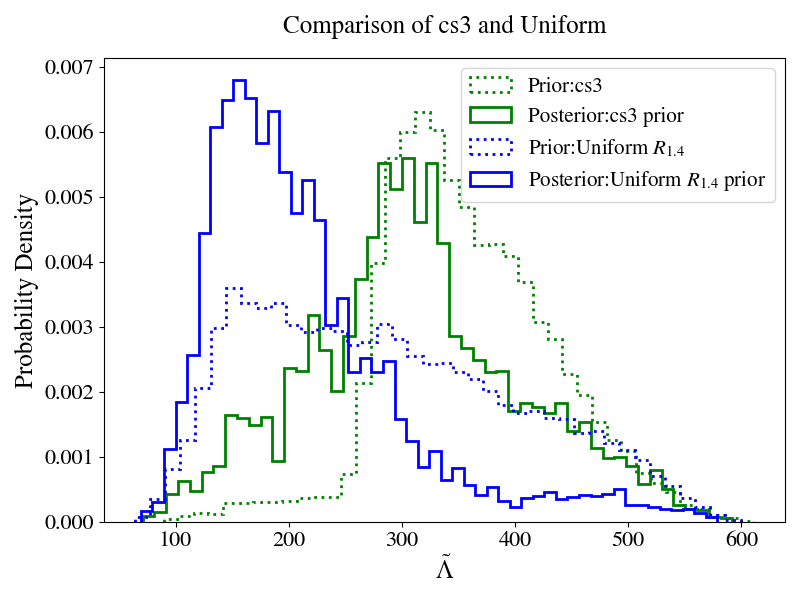
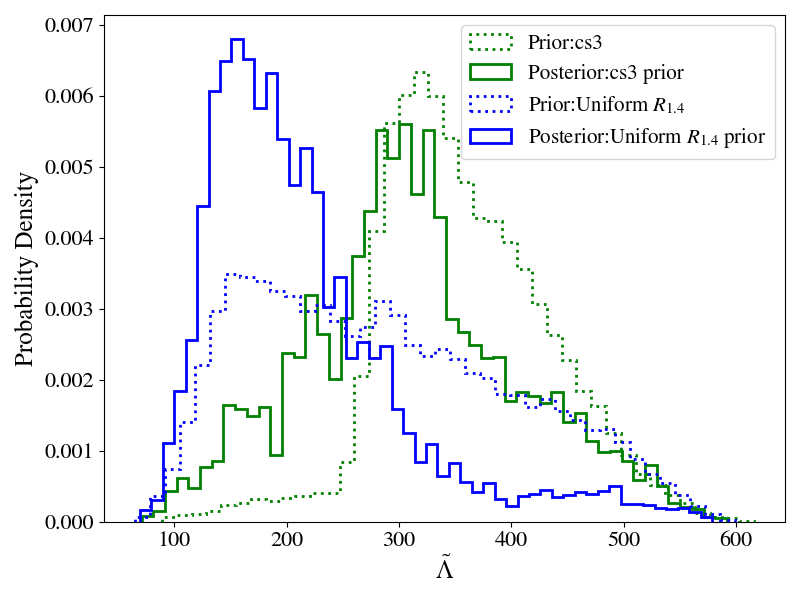
fixed titles

diff --git a/pycbc_runs/scripts/cs5n0prior_post_w_uniform.py b/pycbc_runs/scripts/cs5n0prior_post_w_uniform.py
@@ -187,7 +187,6 @@ plt.tick_params(axis='both', which='major', labelsize=16)
 plt.xlabel(r"$\tilde \Lambda$", fontsize=18)
 plt.ylabel(r"Probability Density", fontsize=18)
 plt.legend(fontsize=15)
-plt.title('Comparison of cs5 and Uniform', fontsize=18, pad=18)
 plt.tight_layout()
 plt.savefig("../plots/cs5n0_lambda_prior_post.png")
 
@@ -219,6 +218,5 @@ plt.tick_params(axis='both', which='major', labelsize=16)
 plt.xlabel(r"$R_{1.4}$ (km)", fontsize=18)
 plt.ylabel(r"Probability Density", fontsize=18)
 plt.legend(fontsize=15, loc="upper left")
-plt.title('Comparison of lin5 and Uniform', fontsize=18, pad=18)
 plt.tight_layout()
 plt.savefig("../plots/cs5n0_r1p4_prior_post.png")

diff --git a/pycbc_runs/scripts/poly5prior_post_w_uniform.py b/pycbc_runs/scripts/poly5prior_post_w_uniform.py
@@ -187,7 +187,6 @@ plt.tick_params(axis='both', which='major', labelsize=16)
 plt.xlabel(r"$\tilde \Lambda$", fontsize=18)
 plt.ylabel(r"Probability Density", fontsize=18)
 plt.legend(fontsize=15)
-plt.title('Comparison of cs5 and Uniform', fontsize=18, pad=18)
 plt.tight_layout()
 plt.savefig("../plots/poly5_lambda_prior_post.png")
 
@@ -219,6 +218,5 @@ plt.tick_params(axis='both', which='major', labelsize=16)
 plt.xlabel(r"$R_{1.4}$ (km)", fontsize=18)
 plt.ylabel(r"Probability Density", fontsize=18)
 plt.legend(fontsize=15, loc="upper left")
-plt.title('Comparison of lin5 and Uniform', fontsize=18, pad=18)
 plt.tight_layout()
 plt.savefig("../plots/poly5_r1p4_prior_post.png")

diff --git a/pycbc_runs/scripts/cs3prior_post_w_uniform.py b/pycbc_runs/scripts/cs3prior_post_w_uniform.py
@@ -187,7 +187,6 @@ plt.tick_params(axis='both', which='major', labelsize=16)
 plt.xlabel(r"$\tilde \Lambda$", fontsize=18)
 plt.ylabel(r"Probability Density", fontsize=18)
 plt.legend(fontsize=15)
-plt.title('Comparison of cs3 and Uniform', fontsize=18, pad=18)
 plt.tight_layout()
 plt.savefig("../plots/cs3_lambda_prior_post.png")
 
@@ -219,6 +218,5 @@ plt.tick_params(axis='both', which='major', labelsize=16)
 plt.xlabel(r"$R_{1.4}$ (km)", fontsize=18)
 plt.ylabel(r"Probability Density", fontsize=18)
 plt.legend(fontsize=15, loc="upper left")
-plt.title('Comparison of lin5 and Uniform', fontsize=18, pad=18)
 plt.tight_layout()
 plt.savefig("../plots/cs3_r1p4_prior_post.png")

diff --git a/pycbc_runs/scripts/cs5prior_post_w_uniform.py b/pycbc_runs/scripts/cs5prior_post_w_uniform.py
@@ -187,7 +187,6 @@ plt.tick_params(axis='both', which='major', labelsize=16)
 plt.xlabel(r"$\tilde \Lambda$", fontsize=18)
 plt.ylabel(r"Probability Density", fontsize=18)
 plt.legend(fontsize=15)
-plt.title('Comparison of cs5 and Uniform', fontsize=18, pad=18)
 plt.tight_layout()
 plt.savefig("../plots/cs5_lambda_prior_post.png")
 
@@ -219,6 +218,5 @@ plt.tick_params(axis='both', which='major', labelsize=16)
 plt.xlabel(r"$R_{1.4}$ (km)", fontsize=18)
 plt.ylabel(r"Probability Density", fontsize=18)
 plt.legend(fontsize=15, loc="upper left")
-plt.title('Comparison of lin5 and Uniform', fontsize=18, pad=18)
 plt.tight_layout()
 plt.savefig("../plots/cs5_r1p4_prior_post.png")
